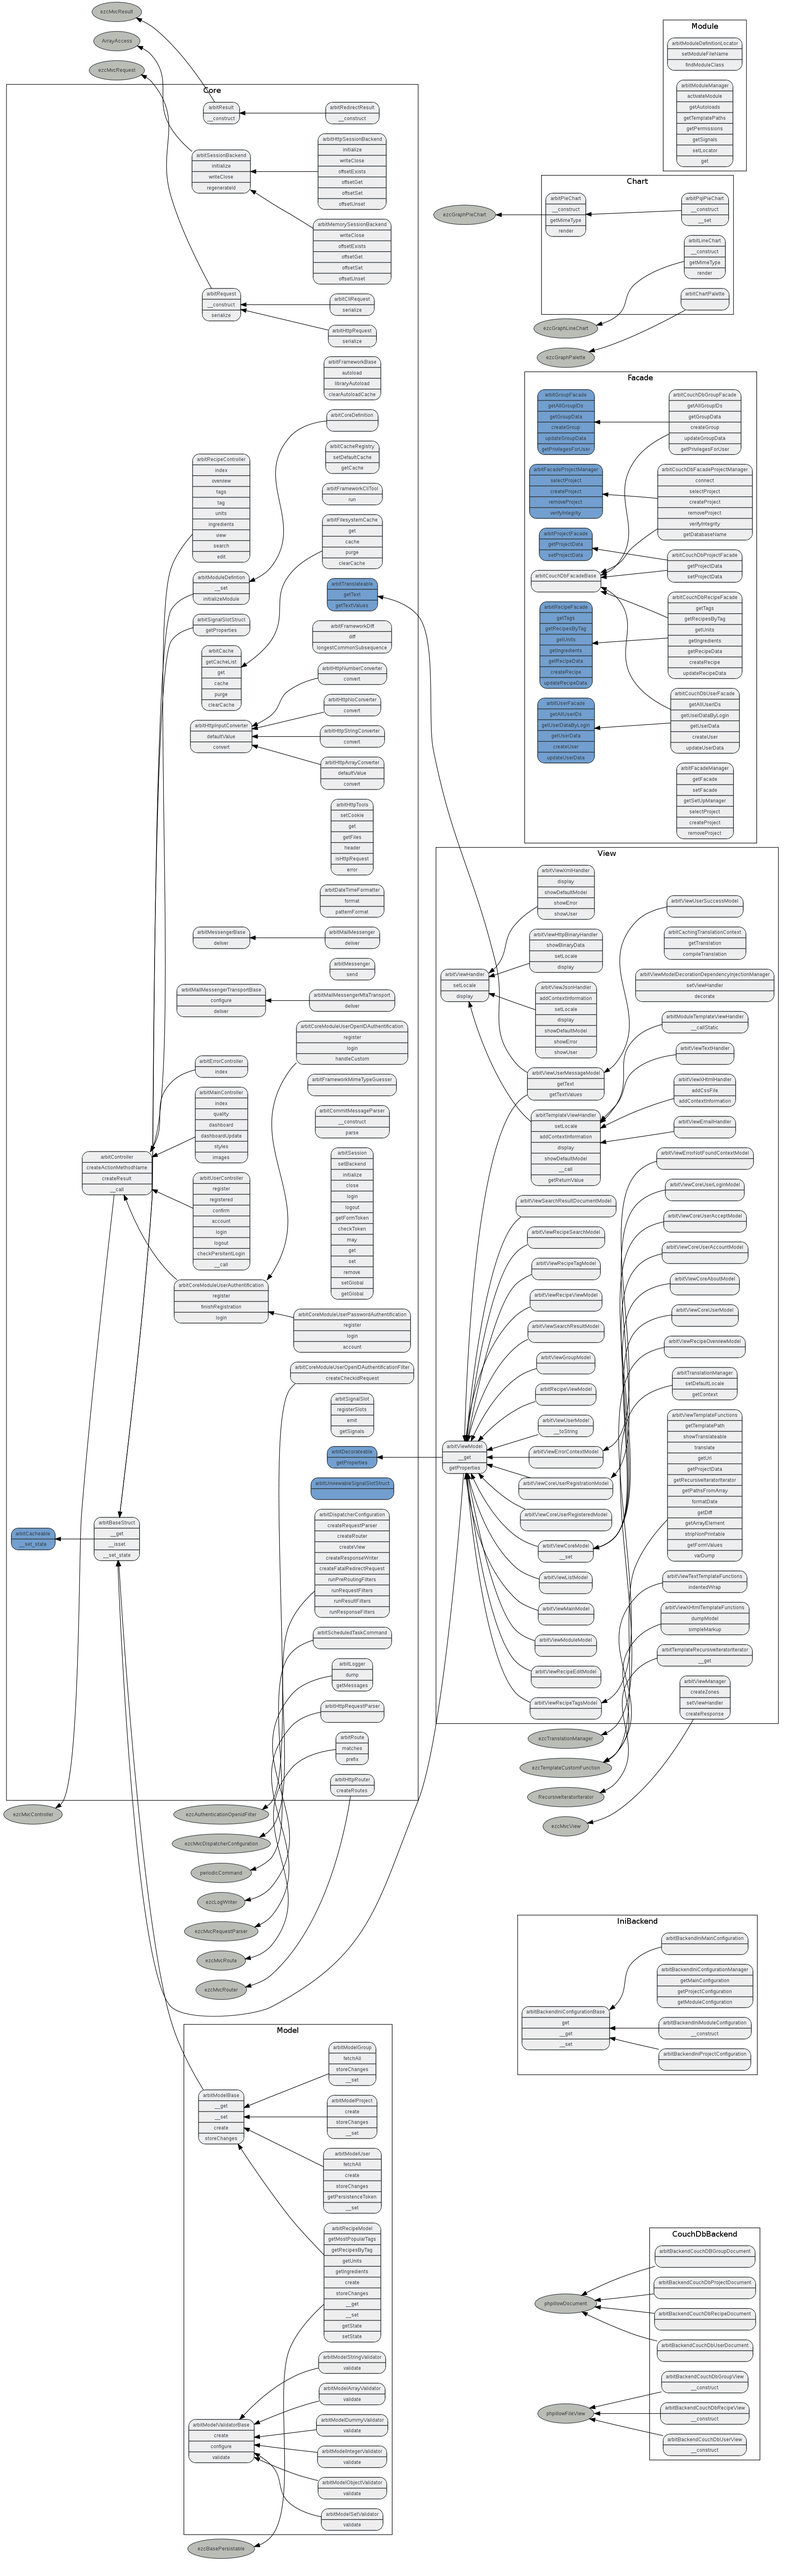
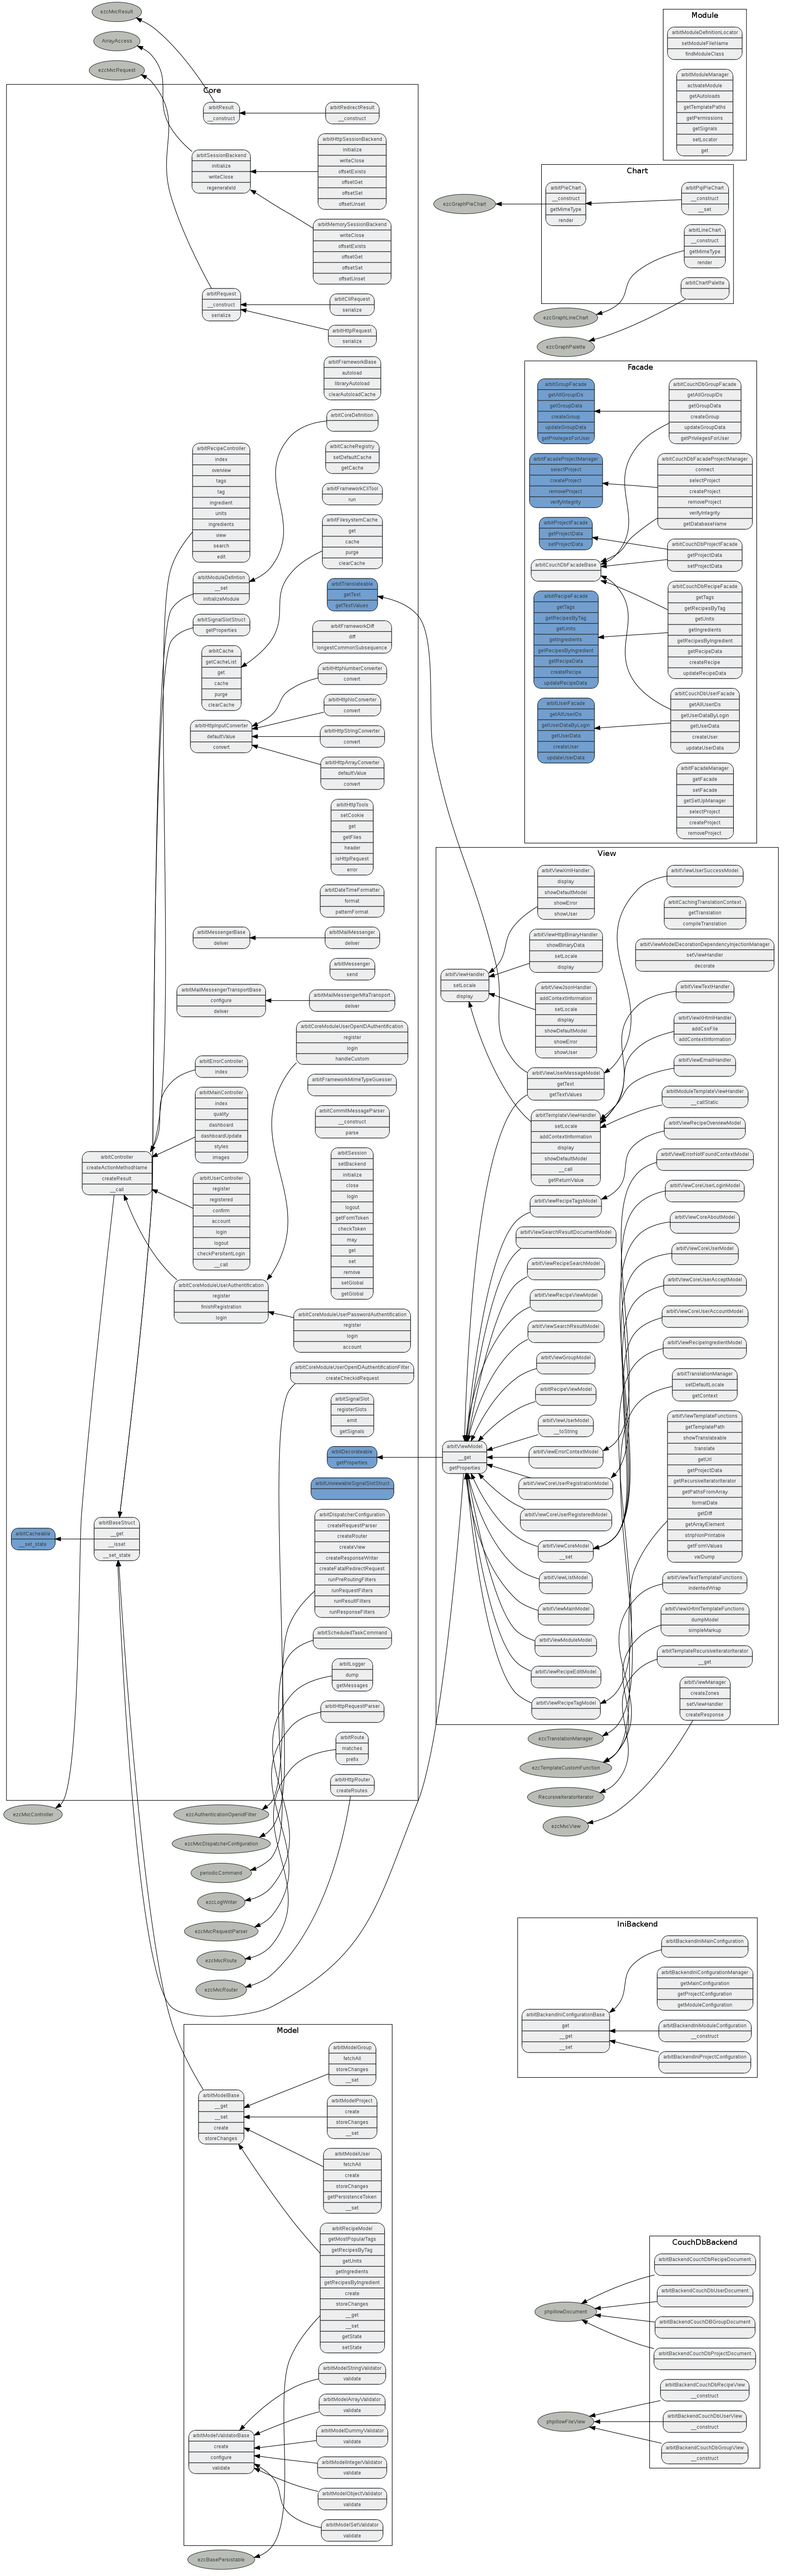
- Implemented: Listing of all recipes containing one given ingredient

diff --git a/classes/backend/couchdb/view/map/recipe_ingredients.js b/classes/backend/couchdb/view/map/recipe_ingredients.js
@@ -6,7 +6,7 @@ function( doc )
         {
             for( var key = 0; key < doc.ingredients[group].length; ++key ) 
             {
-                emit( doc.ingredients[group][key]["ingredient"], 1 );
+                emit( doc.ingredients[group][key]["ingredient"], doc._id );
             }
         }
     }

diff --git a/classes/autoload.php b/classes/autoload.php
@@ -205,10 +205,11 @@ return array(
     'arbitViewMainModel'                                 => 'classes/view/model/main.php',
     'arbitViewModuleModel'                               => 'classes/view/model/module.php',
     'arbitViewRecipeEditModel'                           => 'classes/view/model/recipe_edit.php',
+    'arbitViewRecipeTagModel'                            => 'classes/view/model/recipe_tag.php',
+    'arbitViewRecipeIngredientModel'                     => 'classes/view/model/recipe_ingredient.php',
     'arbitViewRecipeTagsModel'                           => 'classes/view/model/recipe_tags.php',
     'arbitViewRecipeOverviewModel'                       => 'classes/view/model/recipe_overview.php',
     'arbitViewRecipeSearchModel'                         => 'classes/view/model/recipe_search.php',
-    'arbitViewRecipeTagModel'                            => 'classes/view/model/recipe_tag.php',
     'arbitViewRecipeViewModel'                           => 'classes/view/model/recipe_view.php',
     'arbitViewSearchResultModel'                         => 'classes/view/model/search_result.php',
     'arbitViewSearchResultDocumentModel'                 => 'classes/view/model/search_result_document.php',

diff --git a/classes/view/model/recipe_ingredient.php b/classes/view/model/recipe_ingredient.php
@@ -1,0 +1,37 @@
+<?php
+/**
+ * arbit view
+ *
+ * This file is part of arbit.
+ *
+ * arbit is free software; you can redistribute it and/or modify
+ * it under the terms of the GNU General Public License as published by
+ * the Free Software Foundation; version 3 of the License.
+ *
+ * arbit is distributed in the hope that it will be useful,
+ * but WITHOUT ANY WARRANTY; without even the implied warranty of
+ * MERCHANTABILITY or FITNESS FOR A PARTICULAR PURPOSE.  See the
+ * GNU General Public License for more details.
+ *
+ * You should have received a copy of the GNU General Public License
+ * along with arbit; if not, write to the Free Software
+ * Foundation, Inc., 51 Franklin St, Fifth Floor, Boston, MA  02110-1301  USA
+ *
+ * @package Core
+ * @subpackage View
+ * @version $Revision: 1480 $
+ * @license http://www.gnu.org/licenses/gpl-3.0.txt GPL
+ */
+
+/**
+ * Model struct representing recipe creation
+ *
+ * @package Core
+ * @subpackage View
+ * @version $Revision: 1480 $
+ * @license http://www.gnu.org/licenses/gpl-3.0.txt GPL
+ */
+class arbitViewRecipeIngredientModel extends arbitViewRecipeTagModel
+{
+}
+

diff --git a/classes/facade/couchdb/recipe.php b/classes/facade/couchdb/recipe.php
@@ -160,6 +160,36 @@ class arbitCouchDbRecipeFacade extends arbitCouchDbFacadeBase implements arbitRe
     }
 
     /**
+     * Get recipes by ingredient
+     *
+     * Return the IDs of all recipes, which contain the given ingredient,
+     *
+     * @param string $ingredient
+     * @return array
+     */
+    public function getRecipesByIngredient( $ingredient )
+    {
+        $issues = phpillowManager::getView( 'recipe' );
+        $result = $issues->query( 'ingredients', array(
+            'reduce' => false,
+            'key'    => $ingredient,
+        ) );
+
+        if ( !count( $result->rows ) )
+        {
+            return array();
+        }
+
+        $docs = array();
+        foreach ( $result->rows as $row )
+        {
+            $docs[] = is_array( $row['value'] ) ? reset( $row['value'] ) : $row['value'];
+        }
+
+        return $docs;
+    }
+
+    /**
      * Get recipe data
      *
      * Get data for the given recipe id. The data should be returned as an array,

diff --git a/classes/model/recipe.php b/classes/model/recipe.php
@@ -158,6 +158,26 @@ class arbitRecipeModel extends arbitModelBase implements ezcBasePersistable
     }
 
     /**
+     * Get recipes by ingredient
+     *
+     * Return recipe models of all recipes, which contain the given ingredient,
+     *
+     * @param string $ingredient
+     * @return array
+     */
+    public static function getRecipesByIngredient( $ingredient )
+    {
+        $recipe  = arbitFacadeManager::getFacade( 'recipe' );
+        $recipes = $recipe->getRecipesByIngredient( $ingredient );
+        return array_map( function( $id )
+            {
+                return new arbitRecipeModel( $id );
+            },
+            $recipes
+        );
+    }
+
+    /**
      * Method called to create a new instance in the backend.
      *
      * Method called when the model should be created in the backend the first

diff --git a/classes/controller/recipe.php b/classes/controller/recipe.php
@@ -94,6 +94,22 @@ class arbitRecipeController extends arbitController
     }
 
     /**
+     * Ingredient listing action
+     *
+     * Lists all recipes, which belong to a ingredient
+     *
+     * @param arbitRequest $request
+     * @return arbitViewModel
+     */
+    public function ingredient( arbitRequest $request )
+    {
+        return new arbitViewRecipeIngredientModel(
+            $request->subaction,
+            arbitRecipeModel::getRecipesByIngredient( $request->subaction )
+        );
+    }
+
+    /**
      * Units actions
      *
      * Returns a list of the units, starting with the string, specified 

diff --git a/classes/facade/base/recipe.php b/classes/facade/base/recipe.php
@@ -77,6 +77,16 @@ interface arbitRecipeFacade
     public function getIngredients( $string );
 
     /**
+     * Get recipes by ingredient
+     *
+     * Return the IDs of all recipes, which contain the given ingredient,
+     *
+     * @param string $ingredient
+     * @return array
+     */
+    public function getRecipesByIngredient( $ingredient );
+
+    /**
      * Get recipe data
      *
      * Get data for the given recipe id. The data should be returned as an array,

diff --git a/classes/view/handler/xhtml.php b/classes/view/handler/xhtml.php
@@ -58,6 +58,7 @@ class arbitViewXHtmlHandler extends arbitTemplateViewHandler
         'showRecipeOverviewModel'       => 'html/recipe/overview.tpl',
         'showRecipeSearchModel'         => 'html/recipe/search.tpl',
         'showRecipeTagModel'            => 'html/recipe/tag.tpl',
+        'showRecipeIngredientModel'     => 'html/recipe/ingredient.tpl',
     );
 
     /**

diff --git a/classes/view/decorator_manager.php b/classes/view/decorator_manager.php
@@ -165,6 +165,10 @@ class arbitViewModelDecorationDependencyInjectionManager
                 'addContextInformation',
                 'showRecipeTagModel',
             ),
+            'arbitViewRecipeIngredientModel' => array(
+                'addContextInformation',
+                'showRecipeIngredientModel',
+            ),
         ),
 
         /**
